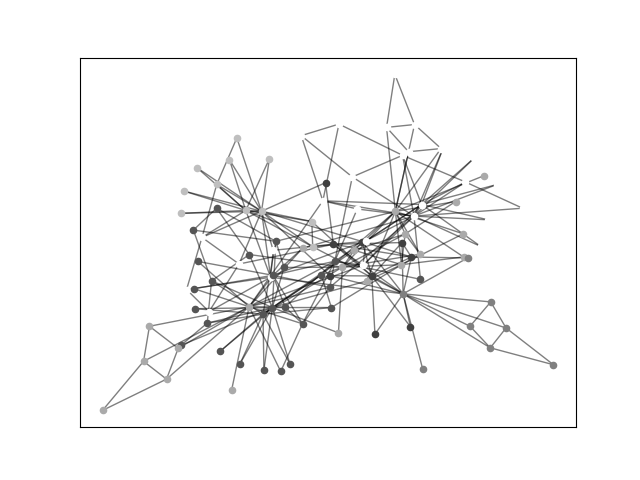
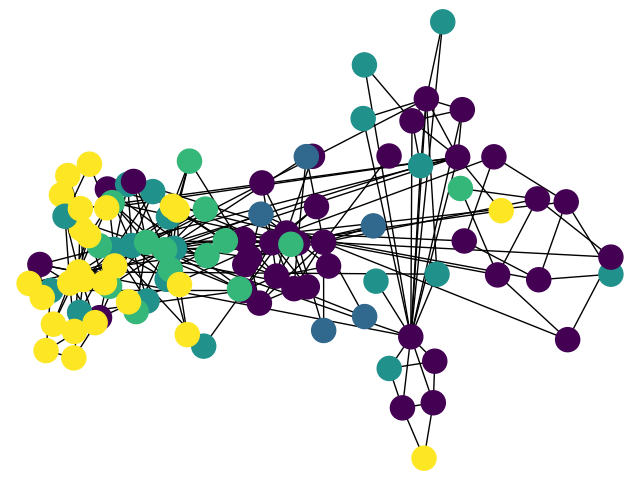
Test draw.py

Changed region(s): [[0.0, 0.0, 1.0, 1.0]]

diff --git a/utils/draw.py b/utils/draw.py
@@ -10,20 +10,9 @@ def draw_community(filepath, community_list, savepath):
         for node in community:
             partition[str(node)] = i
 
-    size = float(len(set(partition.values())))
-    pos = nx.spring_layout(g)
-
-    count = 0.
-    for com in set(partition.values()):
-        count = count + 1.
-        list_nodes = [nodes for nodes in partition.keys() if partition[nodes] == com]
-        nx.draw_networkx_nodes(g, pos, list_nodes, node_size=20, node_color=str(count / size))
-    nx.draw_networkx_edges(g, pos, alpha=0.5)
+    pos = _community_layout(g, partition)
+    nx.draw(g, pos, node_color=list(partition.values()))
     plt.savefig(savepath)
-    # f = plt.figure()
-    # pos = _community_layout(g, partition)
-    # nx.draw(g, pos, node_color=list(partition.values()), ax=f.add_subplot(111))
-    # f.savefig(savepath)
 
 
 def _community_layout(g, partition):
